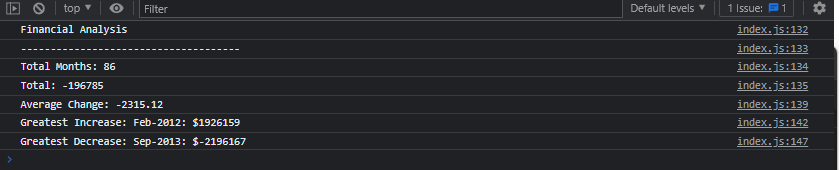
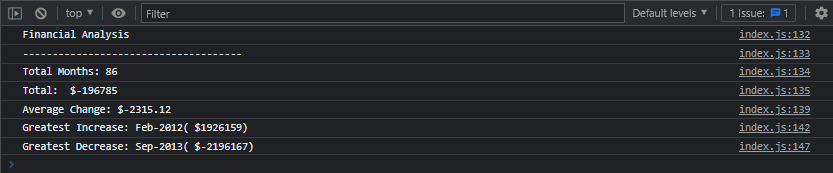
working version ready for pushing

Changed region(s): [[0.0, 0.0, 1.0, 1.0], [0.0, 0.9412, 0.0312, 0.9706]]

diff --git a/index.js b/index.js
@@ -132,18 +132,18 @@ let numAverageTotal = averageTotal.toFixed(2);
 console.log("Financial Analysis");
 console.log("-------------------------------------");
 console.log("Total Months: " + count);
-console.log("Total: " + monthlyDifferenceTotal);
+console.log("Total:  $" + monthlyDifferenceTotal);
 
 // The average of the changes in Profit / Losses over the entire period.
 // (Total / Number of months)
-console.log("Average Change: " + numAverageTotal);
+console.log("Average Change: $" + numAverageTotal);
 
 // The greatest increase in profits(date and amount) over the entire period.
 console.log(
-  "Greatest Increase: " + greatestIncreaseMonth + ": $" + greatestIncrease
+  "Greatest Increase: " + greatestIncreaseMonth + "( $" + greatestIncrease + ")"
 );
 
 // The greatest decrease in losses(date and amount) over the entire period.
 console.log(
-  "Greatest Decrease: " + greatestDecreaseMonth + ": $" + greatestDecrease
+  "Greatest Decrease: " + greatestDecreaseMonth + "( $" + greatestDecrease + ")"
 );
